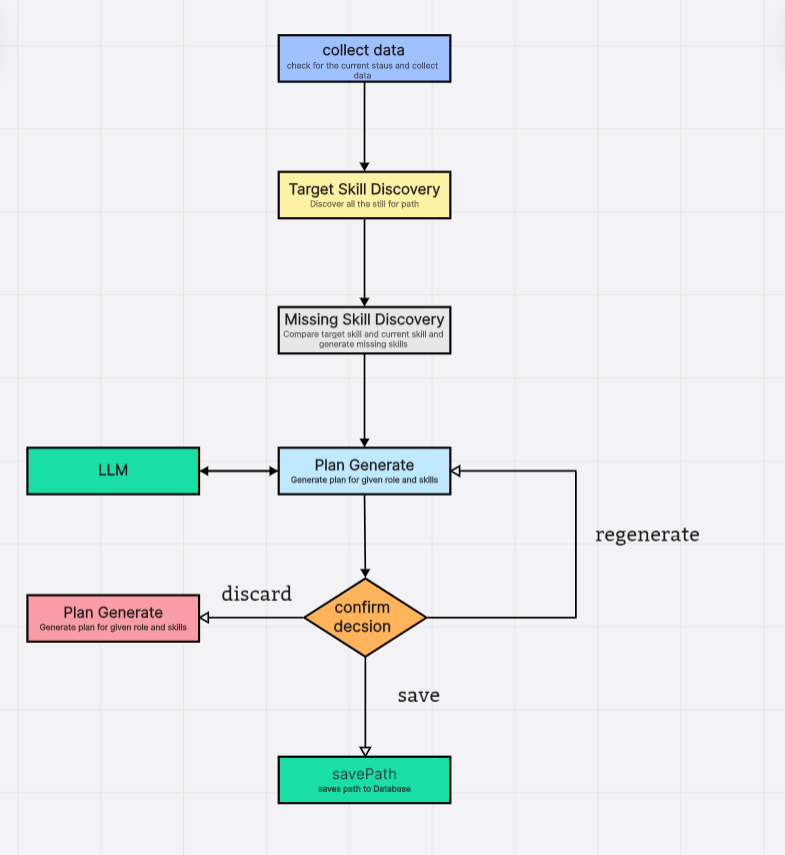
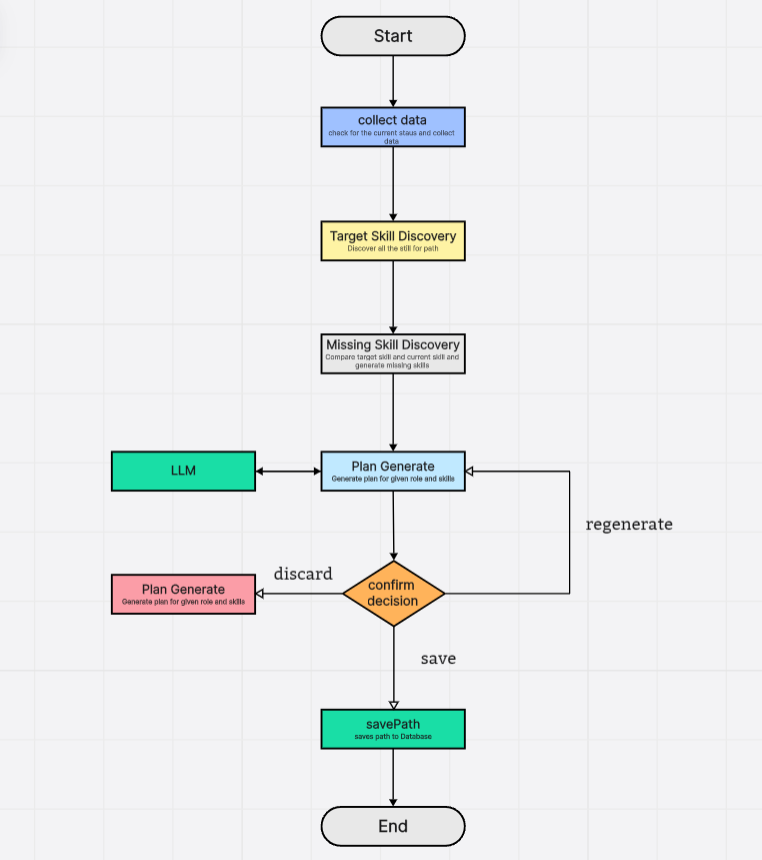
readme updated

Changed region(s): [[0.0302, 0.0, 0.9055, 1.0], [0.6037, 0.9427, 0.6339, 0.9731], [0.6037, 0.0304, 0.6339, 0.0608]]

diff --git a/readme.md b/readme.md
@@ -1,4 +1,62 @@
-# AI Skill Learning Path Agent
+# SkillPilot – AI Career Learning Platform
+
+SkillPilot is an AI-powered career learning platform that helps users plan their learning journey and prepare for technical interviews using a **multi-agent architecture**.
+
+The platform analyzes a user’s **goal**, **current skills**, and **learning preferences** to:
+- Generate structured learning roadmaps  
+- Create interview questions for practice  
+- Provide contextual answers using a knowledge-based chat system (RAG)
+
+Instead of relying on a single LLM call, SkillPilot uses **graph-based multi-step workflows** where different AI agents handle different responsibilities.
+
+---
+
+## Tech Stack
+
+### Frontend
+- ReactJs
+- Html, TailwindCss, Typescript
+
+### Backend
+- Node.js  
+- REST API  
+- TypeScript
+- Jwt Tokens 
+
+### AI / GenAI
+- LangGraph  
+- LangChain  
+- Retrieval-Augmented Generation (RAG)  
+- LLM APIs (Groq, Cohere)
+- Web Search (Tavily)
+
+### Database
+- MongoDB  
+- Vector Database
+
+### Validation / Schema
+- Zod
+
+
+# AI Agents in SkillPilot
+
+The platform consists of three main AI agents:
+
+---
+
+## 1. Learning Path Generator Agent
+
+### Purpose
+Generates a structured **day-wise learning roadmap** based on:
+- user goal  
+- current skills  
+- experience level  
+- available daily learning time  
+
+### Workflow
+
+
+# 1. AI Skill Learning Path Agent
 
 An AI-powered learning roadmap generator agent built using a graph-based workflow architecture with **LangGraph** and **LangChain**.
 
@@ -24,4 +82,29 @@ The agent uses:
 ## Agent Workflow
 
 ![Overview](./docs/path_workflow.png)
+
+# 2 Question Generation Agent
+
+This project implements an **AI-powered Question Generation Agent** that combines **web-extracted questions** and **AI-generated questions** to produce a high-quality final question list for a given topic.
+
+The agent follows a structured workflow including query building, web search, validation, extraction, AI generation, and merging.
+
+---
+
+## Workflow Overview
+
+The agent pipeline works as follows:
+
+1. The workflow begins when a topic or input context is provided.
+2. The agent constructs an optimized search query from the input topic to retrieve relevant data from the web.
+3. The agent performs a web search using a search API (e.g. Tavily).
+4. The agent checks whether the retrieved results are sufficient. If not sufficient, the agent refines the query and repeats the web search step.
+5. The agent extracts relevant or frequently asked questions from the collected web content.
+6. The agent generates additional questions using an LLM to improve coverage and diversity.
+7. Web-extracted and AI-generated questions are merged, and a final structured list is prepared.
+8. The final question set is returned as the output.
+
+---
+## Architecture Flow
+![Overview](./docs/interview_workflow.png)
 
